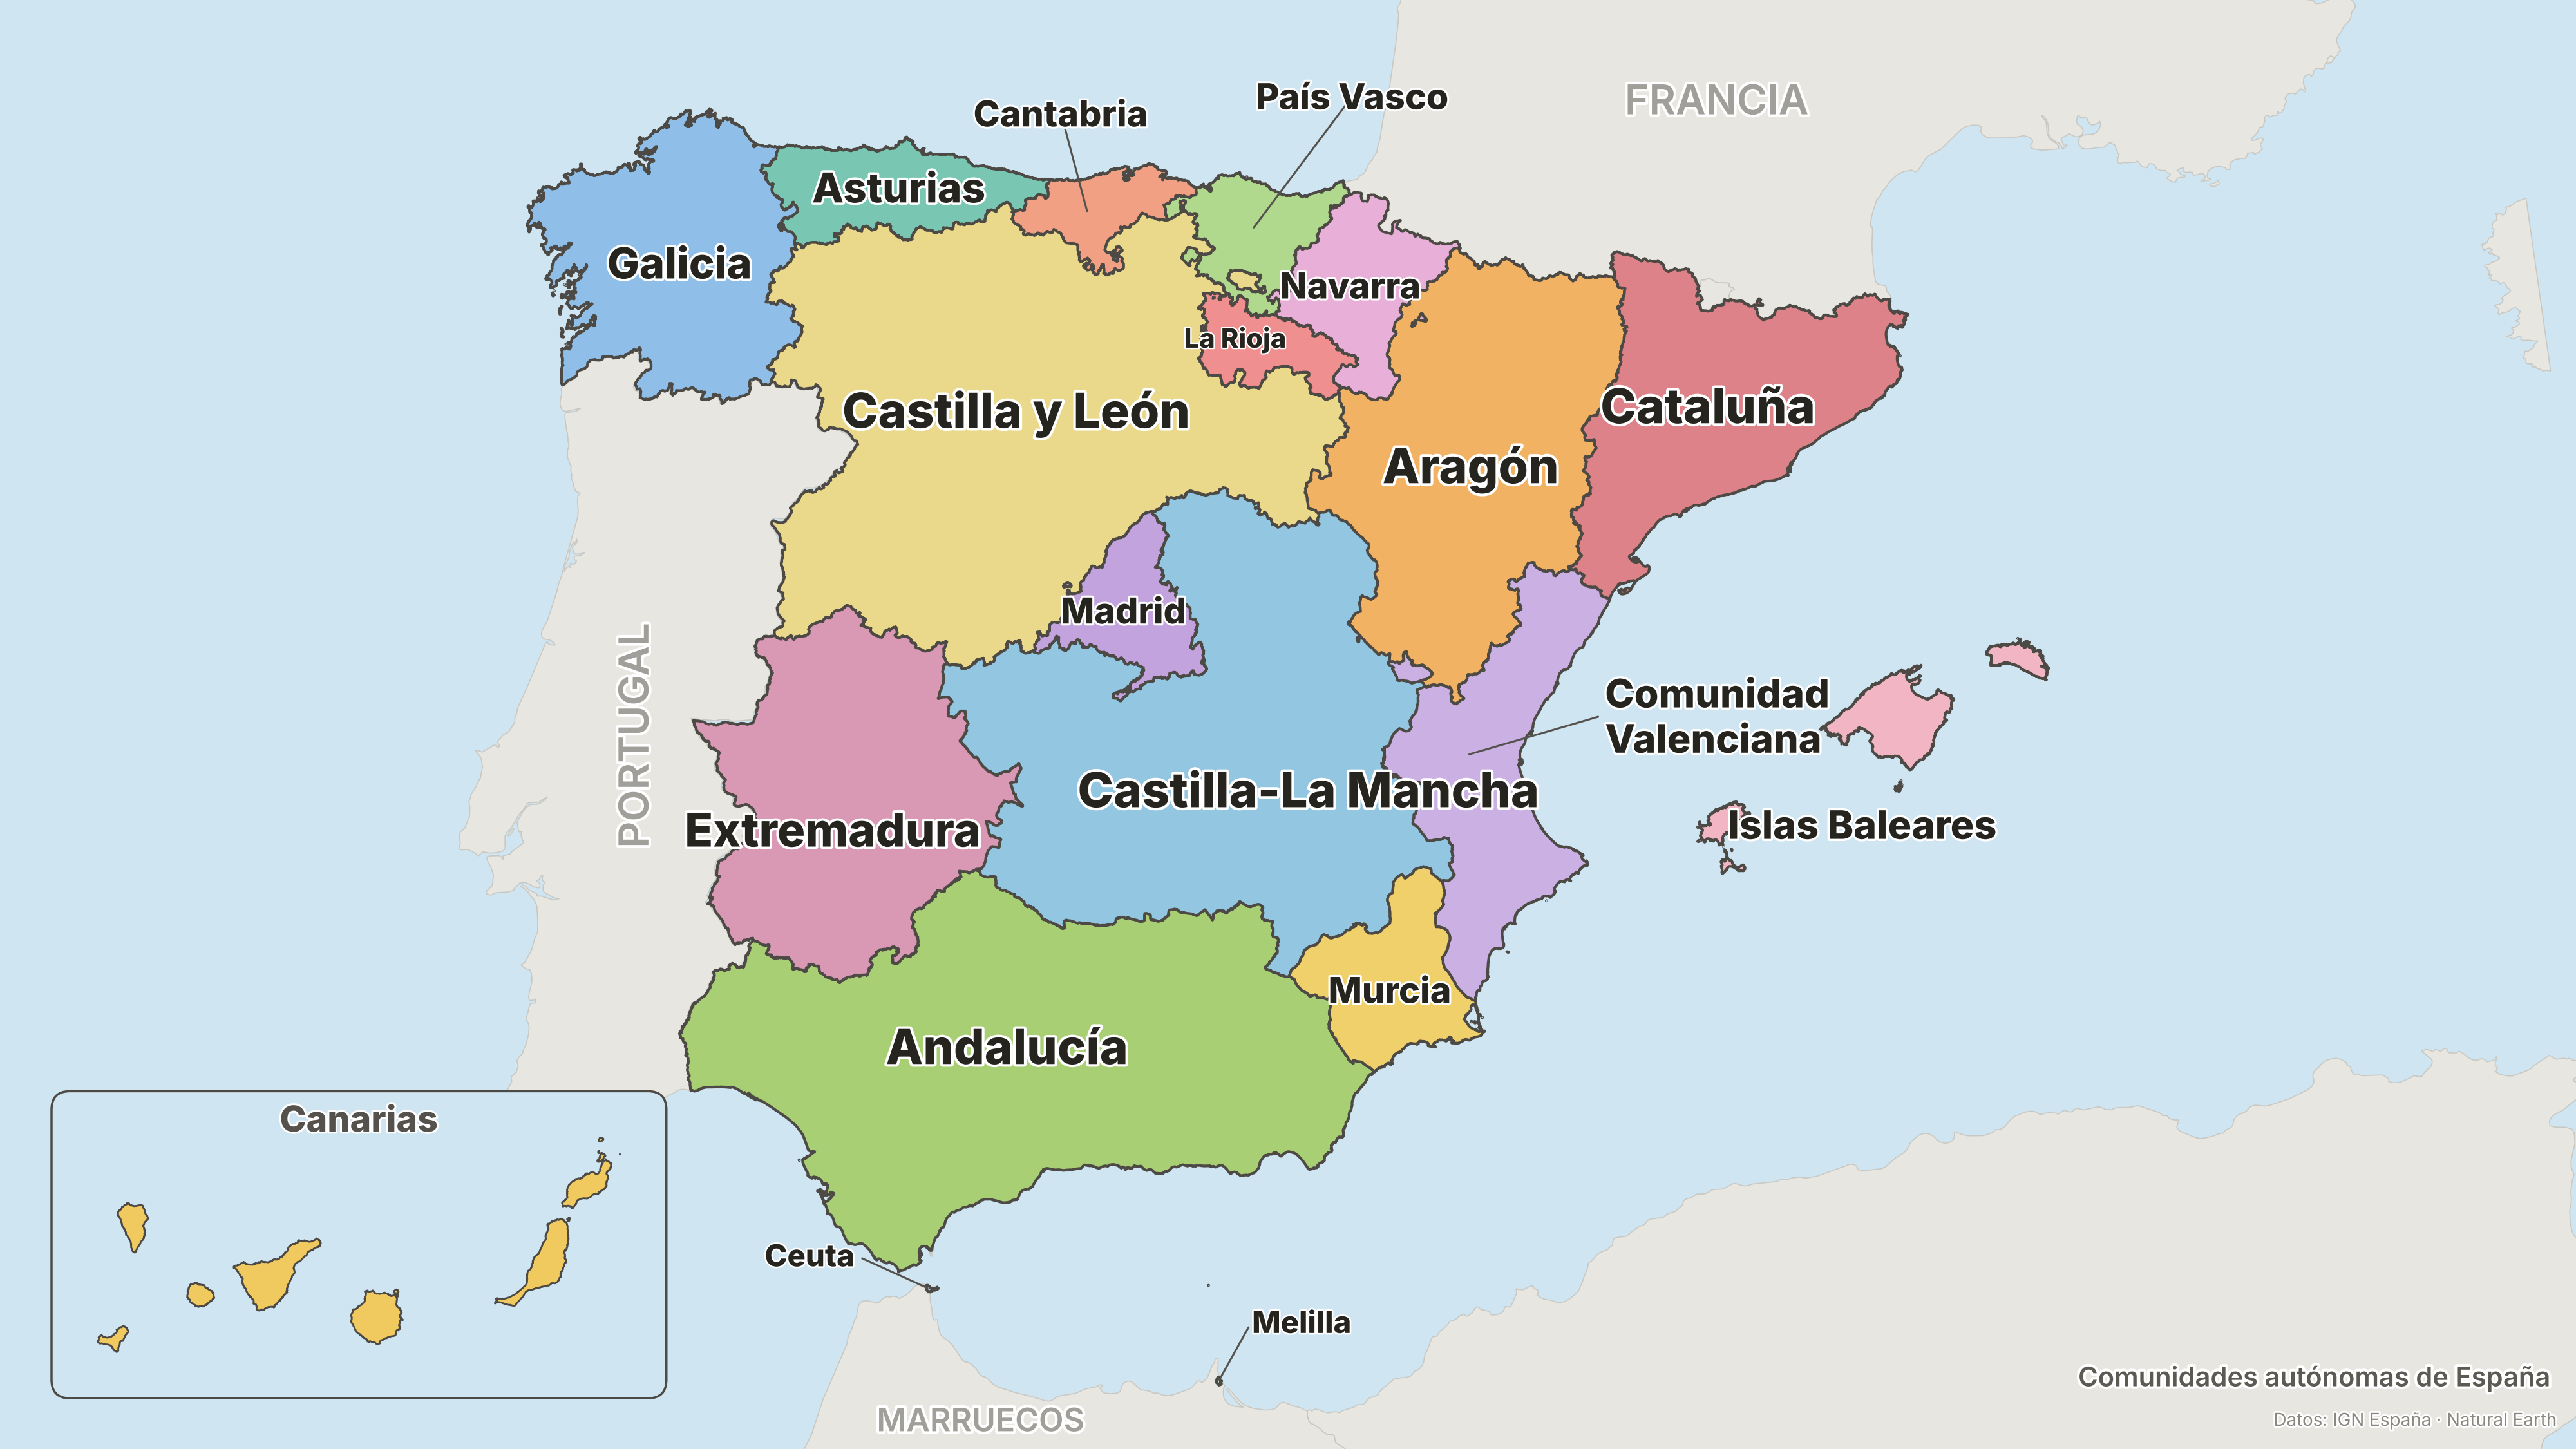
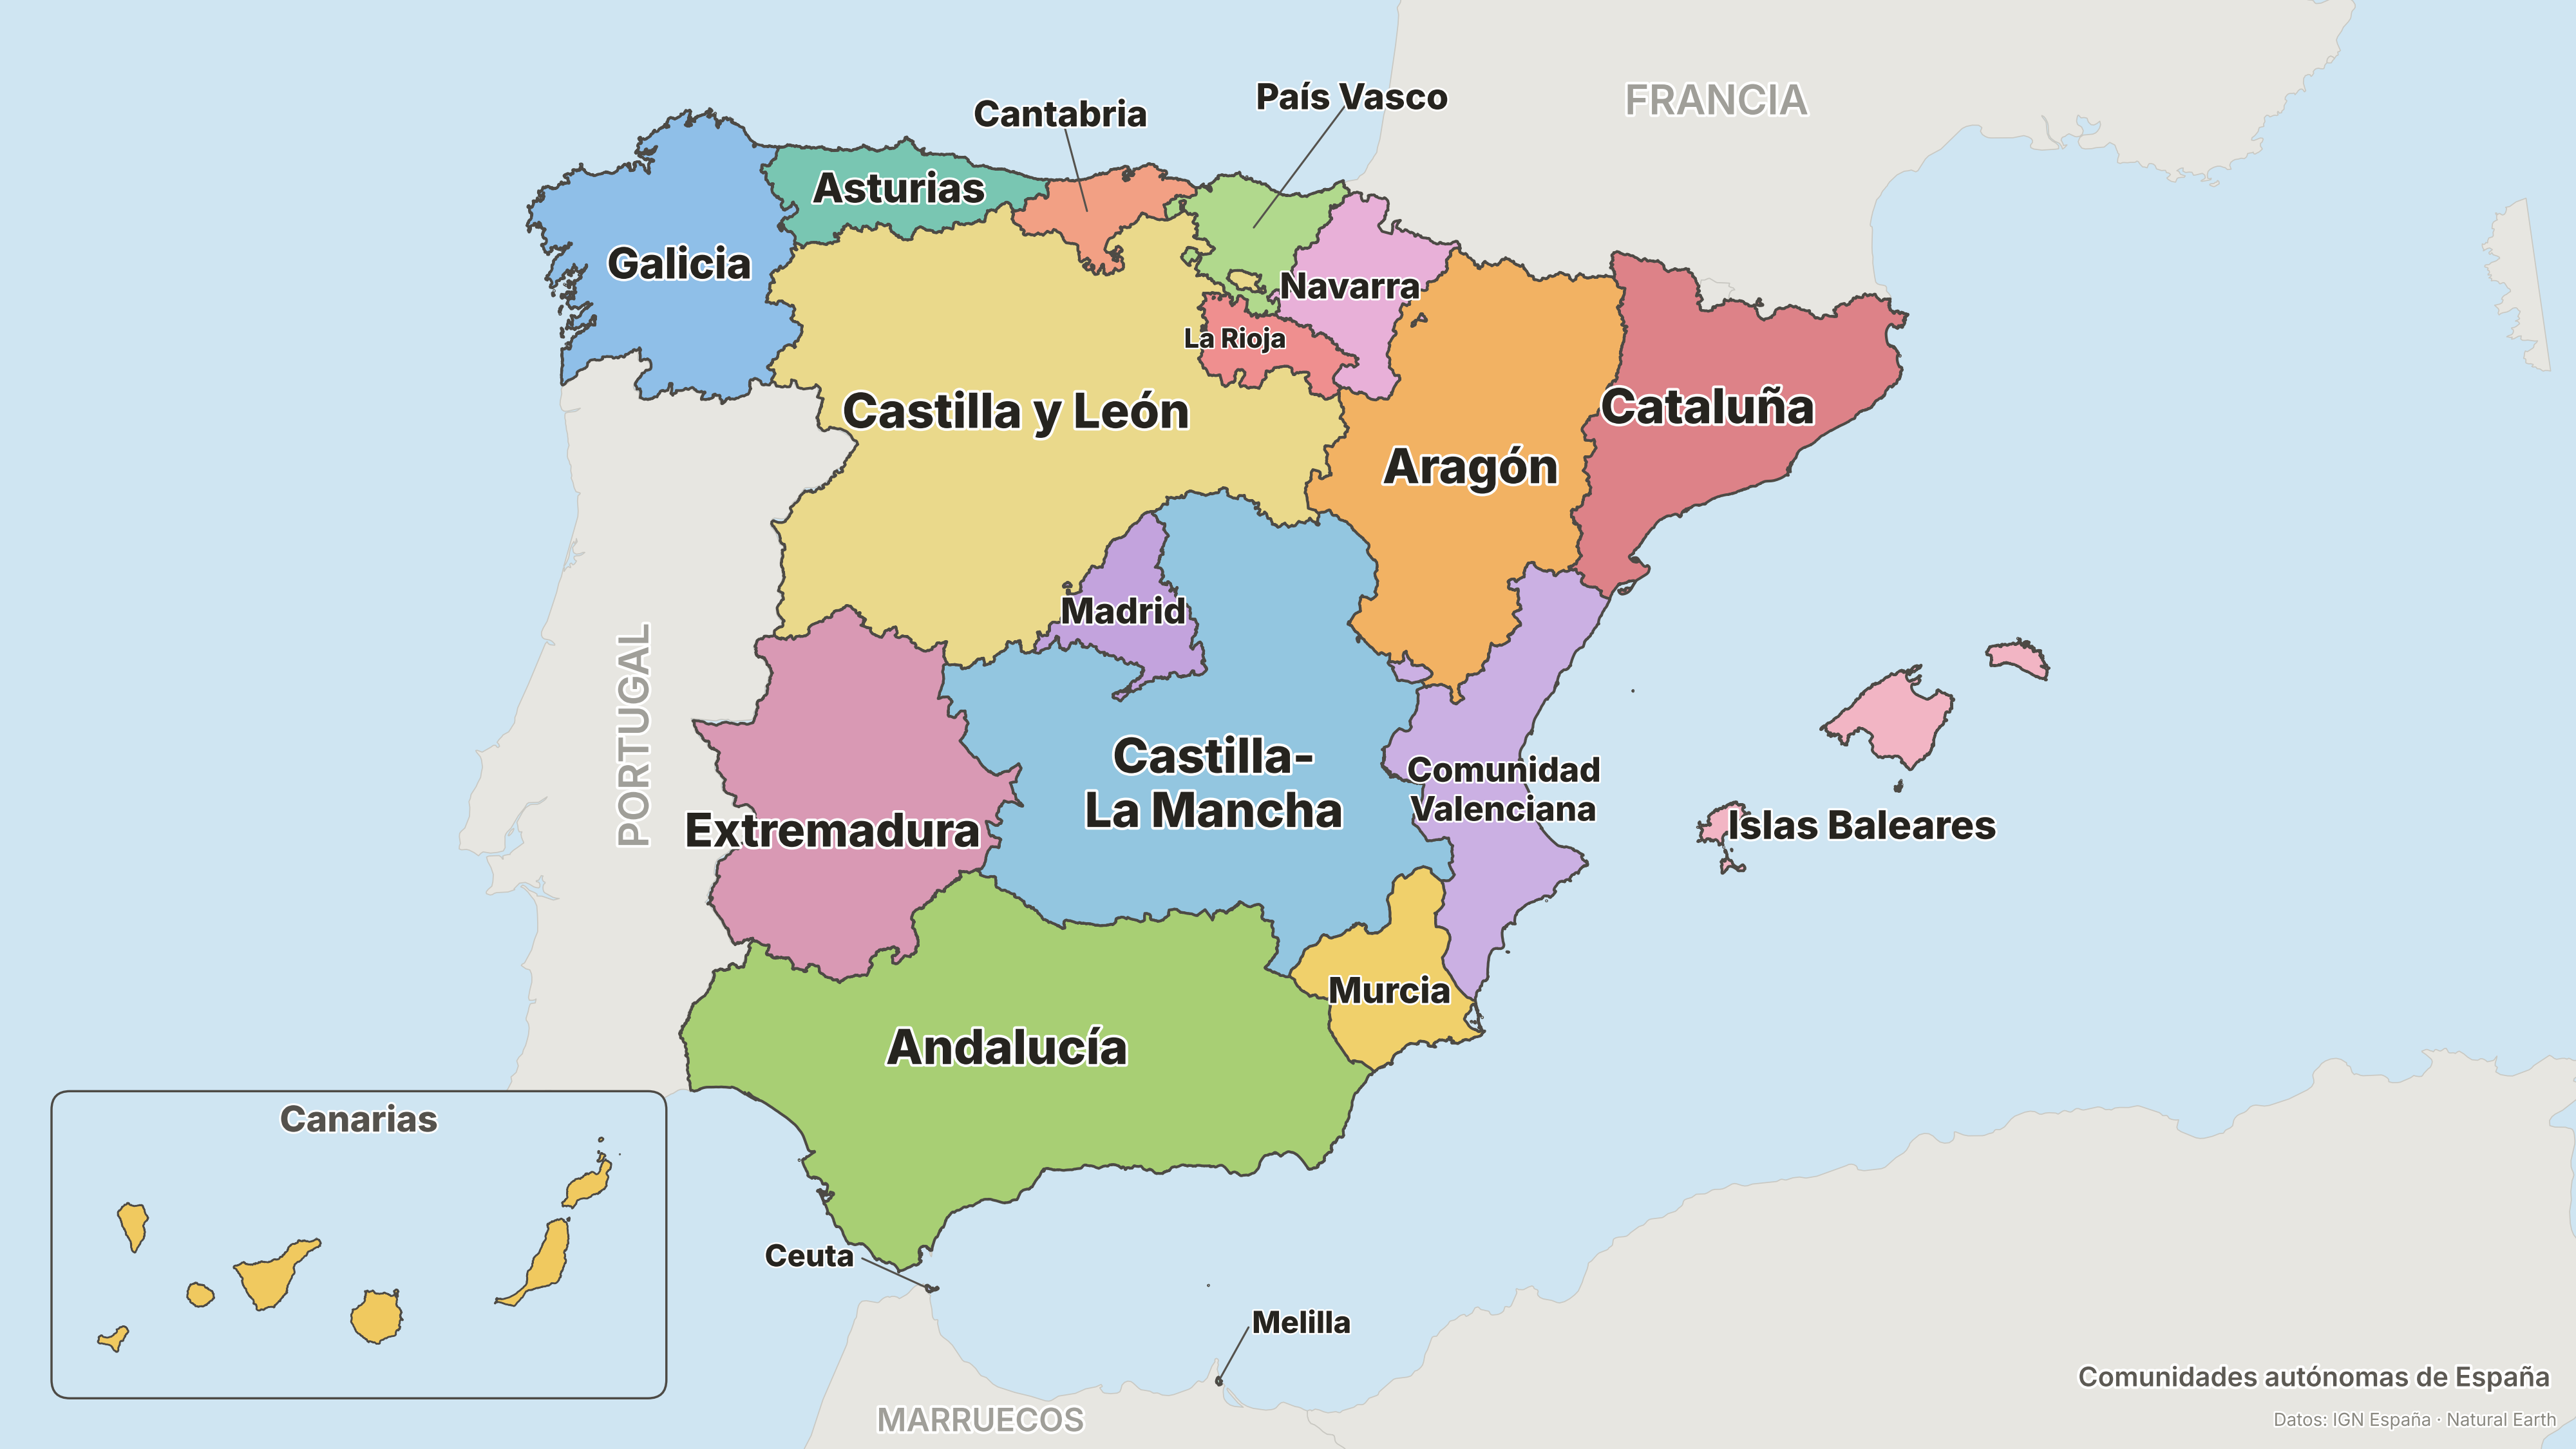
Fix CLM/Valenciana labels; add city geocoding and shared map primitives
Castilla-La Mancha wraps to two lines inside its borders and Comunidad
Valenciana sits on its own strip without a leader line. New groundwork
for the capitals/cities maps: Nominatim-geocoded gazetteer (76 cities,
committed as data/processed/cities.geojson), city metadata module
(capitals, INE 2025 big-city populations, Asturias towns and comarcas),
dot/star/legend drawing primitives, and a Canary-inset point transform.

Claude-Session: https://claude.ai/code/session_01PuyCV6JRnjupUSvtabP3HW

Changed region(s): [[0.4062, 0.4667, 0.7188, 0.5911]]

diff --git a/tvmaps/cities.py b/tvmaps/cities.py
@@ -1,0 +1,143 @@
+"""City locations and metadata for the capitals and big-cities maps."""
+
+import json
+
+from . import geo
+
+
+def load_points(crs=geo.MAIN_CRS):
+    """key -> (x, y) in the requested CRS for every geocoded city."""
+    import geopandas as gpd
+
+    gdf = gpd.read_file(geo.PROCESSED / "cities.geojson").to_crs(crs)
+    return {row.key: (row.geometry.x, row.geometry.y) for _, row in gdf.iterrows()}
+
+
+# prov_code -> capital city key (keys of data/processed/cities.geojson)
+PROV_CAPITALS = {
+    "01": "Vitoria-Gasteiz", "02": "Albacete", "03": "Alicante",
+    "04": "Almería", "05": "Ávila", "06": "Badajoz", "07": "Palma",
+    "08": "Barcelona", "09": "Burgos", "10": "Cáceres", "11": "Cádiz",
+    "12": "Castellón de la Plana", "13": "Ciudad Real", "14": "Córdoba",
+    "15": "A Coruña", "16": "Cuenca", "17": "Girona", "18": "Granada",
+    "19": "Guadalajara", "20": "San Sebastián", "21": "Huelva",
+    "22": "Huesca", "23": "Jaén", "24": "León", "25": "Lleida",
+    "26": "Logroño", "27": "Lugo", "28": "Madrid", "29": "Málaga",
+    "30": "Murcia", "31": "Pamplona", "32": "Ourense", "33": "Oviedo",
+    "34": "Palencia", "35": "Las Palmas de Gran Canaria",
+    "36": "Pontevedra", "37": "Salamanca", "38": "Santa Cruz de Tenerife",
+    "39": "Santander", "40": "Segovia", "41": "Sevilla", "42": "Soria",
+    "43": "Tarragona", "44": "Teruel", "45": "Toledo", "46": "Valencia",
+    "47": "Valladolid", "48": "Bilbao", "49": "Zamora", "50": "Zaragoza",
+    "51": "Ceuta", "52": "Melilla",
+}
+
+# acom_code -> capital city key(s). Canarias has two co-capitals.
+CCAA_CAPITALS = {
+    "01": ["Sevilla"], "02": ["Zaragoza"], "03": ["Oviedo"], "04": ["Palma"],
+    "05": ["Santa Cruz de Tenerife", "Las Palmas de Gran Canaria"],
+    "06": ["Santander"], "07": ["Valladolid"], "08": ["Toledo"],
+    "09": ["Barcelona"], "10": ["Valencia"], "11": ["Mérida"],
+    "12": ["Santiago de Compostela"], "13": ["Madrid"], "14": ["Murcia"],
+    "15": ["Pamplona"], "16": ["Vitoria-Gasteiz"], "17": ["Logroño"],
+    "18": ["Ceuta"], "19": ["Melilla"],
+}
+
+# The 30 most populated municipalities (INE, 1 January 2025), leaving out
+# municipalities that belong to the metropolitan areas of Madrid, Barcelona
+# and Santa Cruz de Tenerife (L'Hospitalet, Terrassa, Badalona, Sabadell,
+# Móstoles, Alcalá de Henares, Leganés, Getafe, Fuenlabrada, Alcorcón,
+# San Cristóbal de La Laguna).
+BIG_CITIES = [
+    ("Madrid", 3_506_730),
+    ("Barcelona", 1_731_649),
+    ("Valencia", 840_792),
+    ("Zaragoza", 693_091),
+    ("Sevilla", 689_423),
+    ("Málaga", 599_063),
+    ("Murcia", 479_405),
+    ("Palma", 434_786),
+    ("Las Palmas de Gran Canaria", 381_868),
+    ("Alicante", 366_221),
+    ("Bilbao", 351_124),
+    ("Córdoba", 323_262),
+    ("Valladolid", 302_614),
+    ("Vigo", 294_489),
+    ("Gijón", 269_894),
+    ("Vitoria-Gasteiz", 260_699),
+    ("A Coruña", 251_543),
+    ("Elche", 245_557),
+    ("Granada", 233_975),
+    ("Oviedo", 223_968),
+    ("Cartagena", 220_704),
+    ("Jerez de la Frontera", 213_634),
+    ("Santa Cruz de Tenerife", 211_957),
+    ("Pamplona", 209_094),
+    ("Almería", 205_468),
+    ("San Sebastián", 189_866),
+    ("Castellón de la Plana", 183_711),
+    ("Burgos", 177_402),
+    ("Santander", 175_425),
+    ("Albacete", 175_400),
+]
+
+# Concejos of Asturias over 10 000 inhabitants (INE 2023) and their capital
+# town, which is where the dot goes.
+ASTURIAS_TOWNS = [
+    # (town key, concejo, population)
+    ("Gijón", "Gijón", 268_313),
+    ("Oviedo", "Oviedo", 217_584),
+    ("Avilés", "Avilés", 75_518),
+    ("Pola de Siero", "Siero", 52_194),
+    ("Langreo", "Langreo", 37_978),
+    ("Mieres", "Mieres", 36_195),
+    ("Piedras Blancas", "Castrillón", 22_103),
+    ("Nubledo", "Corvera de Asturias", 15_612),
+    ("Sotrondio", "San Martín del Rey Aurelio", 15_431),
+    ("Villaviciosa", "Villaviciosa", 15_000),
+    ("Posada", "Llanera", 13_948),
+    ("Llanes", "Llanes", 13_524),
+    ("Pola de Laviana", "Laviana", 12_355),
+    ("Cangas del Narcea", "Cangas del Narcea", 11_596),
+    ("Luarca", "Valdés", 10_958),
+    ("Luanco", "Gozón", 10_470),
+    ("Pola de Lena", "Lena", 10_312),
+    ("Candás", "Carreño", 10_177),
+    ("Cabañaquinta", "Aller", 10_076),
+]
+
+# The eight functional comarcas of Asturias (decree 11/91) -> their concejos.
+ASTURIAS_COMARCAS = {
+    "Eo-Navia": [
+        "Boal", "Castropol", "Coaña", "El Franco", "Grandas de Salime",
+        "Illano", "Navia", "Pesoz", "San Martín de Oscos", "San Tirso de Abres",
+        "Santa Eulalia de Oscos", "Tapia de Casariego", "Taramundi", "Valdés",
+        "Vegadeo", "Villanueva de Oscos", "Villayón",
+    ],
+    "Narcea": ["Allande", "Cangas del Narcea", "Degaña", "Ibias", "Tineo"],
+    "Avilés": [
+        "Avilés", "Candamo", "Castrillón", "Corvera de Asturias", "Cudillero",
+        "Gozón", "Illas", "Muros de Nalón", "Pravia", "Soto del Barco",
+    ],
+    "Oviedo": [
+        "Belmonte de Miranda", "Bimenes", "Cabranes", "Grado", "Llanera",
+        "Morcín", "Nava", "Noreña", "Oviedo", "Proaza", "Quirós",
+        "Las Regueras", "Ribera de Arriba", "Riosa", "Salas", "Santo Adriano",
+        "Sariego", "Siero", "Somiedo", "Teverga", "Yernes y Tameza",
+    ],
+    "Gijón": ["Carreño", "Gijón", "Villaviciosa"],
+    "Caudal": ["Aller", "Lena", "Mieres"],
+    "Nalón": ["Caso", "Langreo", "Laviana", "San Martín del Rey Aurelio",
+              "Sobrescobio"],
+    "Oriente": [
+        "Amieva", "Cabrales", "Cangas de Onís", "Caravia", "Colunga", "Llanes",
+        "Onís", "Parres", "Peñamellera Alta", "Peñamellera Baja", "Piloña",
+        "Ponga", "Ribadedeva", "Ribadesella",
+    ],
+}
+
+
+def format_population(n: int) -> str:
+    """Round to the nearest thousand, Spanish thousands separators."""
+    rounded = round(n / 1000) * 1000
+    return f"{rounded:,}".replace(",", ".")

diff --git a/scripts/download_data.py b/scripts/download_data.py
@@ -128,6 +128,132 @@ def process_context_countries() -> None:
     print(f"  wrote {out.name}: {len(gdf)} features")
 
 
+# Cities and towns whose exact point locations the maps need. Geocoded once
+# via Nominatim (OSM) and committed in data/processed/cities.geojson; the raw
+# responses are cached per city under data/raw/nominatim/.
+# key -> search query
+CITY_QUERIES = {
+    # Province capitals (the key is the display name used on the maps)
+    "Vitoria-Gasteiz": "Vitoria-Gasteiz, España",
+    "Albacete": "Albacete, España",
+    "Alicante": "Alicante, España",
+    "Almería": "Almería, España",
+    "Ávila": "Ávila, España",
+    "Badajoz": "Badajoz, España",
+    "Palma": "Palma de Mallorca, España",
+    "Barcelona": "Barcelona, España",
+    "Burgos": "Burgos, España",
+    "Cáceres": "Cáceres, España",
+    "Cádiz": "Cádiz, España",
+    "Castellón de la Plana": "Castellón de la Plana, España",
+    "Ciudad Real": "Ciudad Real, España",
+    "Córdoba": "Córdoba, España",
+    "A Coruña": "A Coruña, España",
+    "Cuenca": "Cuenca, España",
+    "Girona": "Girona, España",
+    "Granada": "Granada, España",
+    "Guadalajara": "Guadalajara, España",
+    "San Sebastián": "Donostia-San Sebastián, España",
+    "Huelva": "Huelva, España",
+    "Huesca": "Huesca, España",
+    "Jaén": "Jaén, España",
+    "León": "León, España",
+    "Lleida": "Lleida, España",
+    "Logroño": "Logroño, España",
+    "Lugo": "Lugo, España",
+    "Madrid": "Madrid, España",
+    "Málaga": "Málaga, España",
+    "Murcia": "Murcia, España",
+    "Pamplona": "Pamplona, España",
+    "Ourense": "Ourense, España",
+    "Oviedo": "Oviedo, Asturias, España",
+    "Palencia": "Palencia, España",
+    "Las Palmas de Gran Canaria": "Las Palmas de Gran Canaria, España",
+    "Pontevedra": "Pontevedra, España",
+    "Salamanca": "Salamanca, España",
+    "Santa Cruz de Tenerife": "Santa Cruz de Tenerife, España",
+    "Santander": "Santander, España",
+    "Segovia": "Segovia, España",
+    "Sevilla": "Sevilla, España",
+    "Soria": "Soria, España",
+    "Tarragona": "Tarragona, España",
+    "Teruel": "Teruel, España",
+    "Toledo": "Toledo, España",
+    "Valencia": "Valencia, España",
+    "Valladolid": "Valladolid, España",
+    "Bilbao": "Bilbao, España",
+    "Zamora": "Zamora, España",
+    "Zaragoza": "Zaragoza, España",
+    "Ceuta": "Ceuta, España",
+    "Melilla": "Melilla, España",
+    # Community capitals not already above
+    "Mérida": "Mérida, Badajoz, España",
+    "Santiago de Compostela": "Santiago de Compostela, España",
+    # Big non-capital cities
+    "Vigo": "Vigo, España",
+    "Gijón": "Gijón, Asturias, España",
+    "Elche": "Elche, España",
+    "Jerez de la Frontera": "Jerez de la Frontera, España",
+    "Cartagena": "Cartagena, España",
+    # Main towns of Asturias (capitals of the concejos over 10 000 inhabitants)
+    "Avilés": "Avilés, Asturias, España",
+    "Pola de Siero": "Pola de Siero, Asturias, España",
+    "Langreo": "La Felguera, Langreo, Asturias, España",
+    "Mieres": "Mieres del Camino, Asturias, España",
+    "Piedras Blancas": "Piedras Blancas, Castrillón, Asturias, España",
+    "Nubledo": "Nubledo, Corvera de Asturias, España",
+    "Sotrondio": "Sotrondio, Asturias, España",
+    "Villaviciosa": "Villaviciosa, Asturias, España",
+    "Posada": "Posada, Llanera, Asturias, España",
+    "Llanes": "Llanes, Asturias, España",
+    "Pola de Laviana": "Pola de Laviana, Asturias, España",
+    "Cangas del Narcea": "Cangas del Narcea, Asturias, España",
+    "Luarca": "Luarca, Asturias, España",
+    "Luanco": "Luanco, Asturias, España",
+    "Pola de Lena": "Pola de Lena, Asturias, España",
+    "Candás": "Candás, Asturias, España",
+    "Cabañaquinta": "Cabañaquinta, Aller, Asturias, España",
+}
+
+
+def process_cities() -> None:
+    import json
+    import time
+
+    cache_dir = RAW / "nominatim"
+    cache_dir.mkdir(parents=True, exist_ok=True)
+    features = []
+    for key, query in CITY_QUERIES.items():
+        cache = cache_dir / (key.replace(" ", "_").replace("/", "-") + ".json")
+        if not cache.exists():
+            resp = requests.get(
+                "https://nominatim.openstreetmap.org/search",
+                params={"q": query, "format": "json", "limit": 1},
+                headers={"User-Agent": "static-tv-maps/1.0 (personal project)"},
+                timeout=30,
+            )
+            resp.raise_for_status()
+            cache.write_text(resp.text)
+            time.sleep(1.1)  # Nominatim usage policy: max 1 request/second
+        hits = json.loads(cache.read_text())
+        if not hits:
+            print(f"  !! no result for {key} ({query})")
+            continue
+        lon, lat = float(hits[0]["lon"]), float(hits[0]["lat"])
+        if not (-19.0 < lon < 5.0 and 27.0 < lat < 44.5):
+            print(f"  !! suspicious location for {key}: {lat:.3f}, {lon:.3f}")
+        features.append({
+            "type": "Feature",
+            "properties": {"key": key},
+            "geometry": {"type": "Point", "coordinates": [round(lon, 5), round(lat, 5)]},
+        })
+    out = PROCESSED / "cities.geojson"
+    out.write_text(json.dumps(
+        {"type": "FeatureCollection", "features": features},
+        ensure_ascii=False, indent=None))
+    print(f"  wrote {out.name}: {len(features)} cities")
+
+
 def main() -> None:
     RAW.mkdir(parents=True, exist_ok=True)
     PROCESSED.mkdir(parents=True, exist_ok=True)
@@ -139,6 +265,8 @@ def main() -> None:
     process_asturias()
     print("Context countries:")
     process_context_countries()
+    print("Cities:")
+    process_cities()
     print("Done.")
 
 

diff --git a/tvmaps/draw.py b/tvmaps/draw.py
@@ -112,6 +112,37 @@ def draw_inset_box(ax, box, label=None, zorder=3):
     return patch
 
 
+def city_dot(ax, xy, size=13, face="#3a3733", edge="#ffffff", zorder=8):
+    ax.plot(xy[0], xy[1], "o", ms=size, mfc=face, mec=edge, mew=2.2, zorder=zorder)
+
+
+def city_star(ax, xy, size=26, face="#f2c53d", edge="#4d4a45", zorder=8):
+    ax.plot(xy[0], xy[1], "*", ms=size, mfc=face, mec=edge, mew=2.0, zorder=zorder)
+
+
+def legend_column(ax, frame, x_frac, y_top_frac, rows, size=26,
+                  color=style.LABEL_COLOR, leading=1.5, num_gap_frac=0.0045):
+    """A numbered legend column.
+
+    `rows` is a list of (number, text) tuples; numbers are right-aligned at
+    x_frac, texts left-aligned just after. Returns the bottom y fraction."""
+    fx0, fy0, fx1, fy1 = frame
+    fw, fh = fx1 - fx0, fy1 - fy0
+    row_frac = (size * style.DPI / 72 * leading) / style.HEIGHT_PX
+    x_num = fx0 + x_frac * fw
+    x_text = fx0 + (x_frac + num_gap_frac) * fw
+    y = y_top_frac
+    for num, text in rows:
+        yy = fy0 + y * fh
+        if num is not None:
+            halo_text(ax, x_num, yy, str(num), size, weight="extrabold",
+                      color=color, ha="right", va="top", zorder=20)
+        halo_text(ax, x_text, yy, text, size, weight="semibold",
+                  color=color, ha="left", va="top", zorder=20)
+        y -= row_frac
+    return y
+
+
 # When True (see generate.py --jpg), each map is also written as JPEG —
 # handy for TVs that only accept JPEG from USB sticks or DLNA servers.
 SAVE_JPG = False

diff --git a/tvmaps/geo.py b/tvmaps/geo.py
@@ -68,18 +68,25 @@ def place_canary(canary: gpd.GeoDataFrame, frame, margin_x=0.02, margin_y=0.035,
     pad = 42_000  # metres of breathing room inside the inset box
     target_x0 = fx0 + margin_x * fw  # left edge of the box
     scale = 1.0
+    origin = (cx0, cy0)
     if max_x is not None:
         natural_w = (cx1 - cx0) + 2 * pad
         scale = min(1.0, (max_x - target_x0) / natural_w)
     can.geometry = can.geometry.apply(
-        lambda g: affinity.scale(g, xfact=scale, yfact=scale, origin=(cx0, cy0)))
+        lambda g: affinity.scale(g, xfact=scale, yfact=scale, origin=origin))
     pad *= scale
     cx0, cy0, cx1, cy1 = can.total_bounds
     dx = target_x0 + pad - cx0
     dy = fy0 + margin_y * fh + pad - cy0
     can.geometry = can.geometry.apply(lambda g: affinity.translate(g, xoff=dx, yoff=dy))
     box = (cx0 + dx - pad, cy0 + dy - pad, cx1 + dx + pad, cy1 + dy + pad)
-    return can, box
+    return can, box, (scale, origin, dx, dy)
+
+
+def canary_xy(xy, transform):
+    """Map a point given in CANARY_CRS through a place_canary() transform."""
+    scale, (ox, oy), dx, dy = transform
+    return (ox + (xy[0] - ox) * scale + dx, oy + (xy[1] - oy) * scale + dy)
 
 
 def label_point(geom, tol: float = 1500.0):

diff --git a/tvmaps/maps_spain.py b/tvmaps/maps_spain.py
@@ -34,8 +34,8 @@ def spain_scene():
     # The Canary inset may cover Portugal or Morocco but never Spain: cap its
     # right edge just west of the Huelva coast.
     limit = _project_lonlat(-7.6, 37.0)[0]
-    ccaa_can, box = geo.place_canary(ccaa[ccaa.acom_code == "05"], frame, max_x=limit)
-    prov_can, _ = geo.place_canary(prov[prov.acom_code == "05"], frame, max_x=limit)
+    ccaa_can, box, tf = geo.place_canary(ccaa[ccaa.acom_code == "05"], frame, max_x=limit)
+    prov_can, _, _ = geo.place_canary(prov[prov.acom_code == "05"], frame, max_x=limit)
 
     return dict(
         frame=frame,
@@ -45,6 +45,7 @@ def spain_scene():
         prov_pen=prov_pen,
         prov_can=prov_can,
         canary_box=box,
+        canary_tf=tf,
     )
 
 
@@ -88,9 +89,9 @@ CCAA_LABELS = {
     "04": Label(44, dx=-30, dy=-75),    # Islas Baleares — at sea below Mallorca
     "06": Label(40, tx=-20, ty=75),     # Cantabria — callout into the sea
     "07": Label(),                      # Castilla y León
-    "08": Label(54, dx=35, dy=-5),      # Castilla-La Mancha
+    "08": Label(54, dx=-35),            # Castilla-La Mancha
     "09": Label(),                      # Cataluña
-    "10": Label(44, tx=103, ty=30, ha="left"),   # C. Valenciana — at sea
+    "10": Label(38, dx=28, dy=-25),     # Comunidad Valenciana
     "11": Label(52, dx=-25, dy=-20),    # Extremadura
     "12": Label(48),                    # Galicia
     "13": Label(40),                    # Madrid

diff --git a/tvmaps/style.py b/tvmaps/style.py
@@ -55,7 +55,7 @@ CCAA_DISPLAY = {
     "05": "Canarias",
     "06": "Cantabria",
     "07": "Castilla y León",
-    "08": "Castilla-La Mancha",
+    "08": "Castilla-\nLa Mancha",
     "09": "Cataluña",
     "10": "Comunidad\nValenciana",
     "11": "Extremadura",